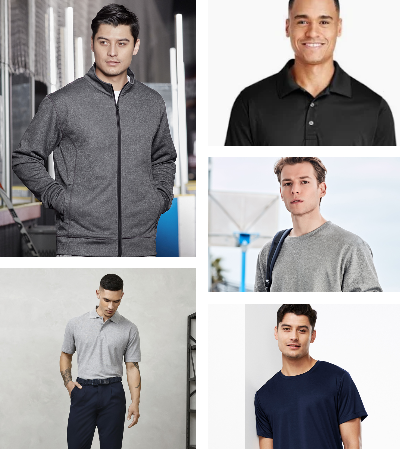
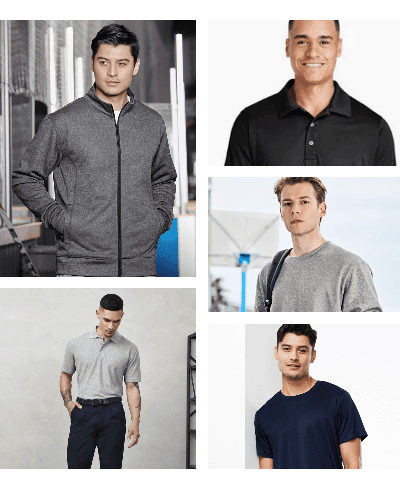
first commit

diff --git a/src/App/Root/Products/Products.tsx b/src/App/Root/Products/Products.tsx
@@ -76,7 +76,6 @@ const Products = () => {
           Que vous <br /> recherchiez :
         </h3>
         <div className={styles["products__grid"]}>
-          
           {productsList.map((product) => (
             <div
               style={{
@@ -88,6 +87,7 @@ const Products = () => {
                 ]
                   ? "center"
                   : "",
+               
               }}
               className={`${styles["products__grid__item"]} ${
                 styles[`products__grid__item--${product.id}`]
@@ -101,12 +101,11 @@ const Products = () => {
                     : "",
                   width: descrtiption[product.id as keyof typeof descrtiption]
                     ? "35%"
-                    : "",  
-                  }}
-               className= {styles[`products__grid__border--${product.id}`]}>
+                    : "",
+                }}
+                className={styles[`products__grid__border--${product.id}`]}
+              ></div>
 
-              </div>
-             
               <h3
                 style={{
                   display: descrtiption[product.id as keyof typeof descrtiption]
@@ -118,7 +117,6 @@ const Products = () => {
                 }`}
               >
                 {product.name}
-             
               </h3>
               <button
                 id={product.id.toString()}
@@ -127,10 +125,10 @@ const Products = () => {
                     ? "50%"
                     : "",
                   bottom: descrtiption[product.id as keyof typeof descrtiption]
-                    ? "22%"
-                    : "",  
-               
-                  opacity: opacity[product.id -1],
+                    ? "0%"
+                    : "",
+
+                  opacity: opacity[product.id - 1],
                 }}
                 type="button"
                 aria-label="cliquer pour plus d'informations"
@@ -163,16 +161,26 @@ const Products = () => {
                   display: descrtiption[product.id as keyof typeof descrtiption]
                     ? "flex"
                     : "none",
-                  minHeight: `${minHeight}px`,  
+                  minHeight: `${minHeight}px`,
                 }}
-                className={styles["products__grid__item__description"]}
+                className={styles["products__grid__item__description"]} 
               >
                 <p
                   className={styles["products__grid__item__description__text"]}
                 >
                   {product.description}
                 </p>
+                <div
+                  className={ 
+                    styles["products__grid__item__description__catalogue"]
+                  }
+                  style={{ display: "flex" }}
+                >
+                  {product.catalogues &&
+                    product.catalogues.map((catalogue) => <p>{catalogue}</p>)}
+                </div>
               </div>
+              
             </div>
           ))}
         </div>

diff --git a/src/App/Root/Products/Products.module.scss b/src/App/Root/Products/Products.module.scss
@@ -142,8 +142,11 @@
         align-items: center;
         position: relative;
         justify-content: center;
+        height: fit-content;
 
         @media(min-width: $mw-mobile) {
+
+            
 
             grid-template-areas: "a b"
                 "c d"
@@ -219,9 +222,11 @@
         &__img {
             width: 100%;
             animation: fade forwards 1s ease-in-out;
+            border-block: 15px solid white;
 
-
-
+            @media(min-width: $mw-mobile) {
+                border: none;
+            }
 
             &--1 {
                 grid-area: b;
@@ -327,6 +332,7 @@
             position: relative;
             
 
+         
            
 
             &__text {
@@ -336,6 +342,7 @@
 
                 @media(max-width: $mw-mobile) {
                     font-size: $fs-080;
+                    margin-top: -10%;
                 }
 
                 @keyframes fade {
@@ -363,7 +370,28 @@
                 }
 
             }
+
+            &__catalogue {
+                width: 100%;
+                text-align: center;
+                display: flex;
+                justify-content: center;
+                flex-direction: row;
+                gap: $sz-075;
+                margin-top: $sz-075;
+                font-size: $fs-080;
+                text-decoration: underline;
+                padding-inline: $sz-100;
+
+                @media(max-width: $mw-mobile) {
+                    margin-top: $sz-050;
+                    font-size: $fs-075;
+                }
+                
+            }
         }
+
+       
     }
 
 }

diff --git a/src/assets/products.ts b/src/assets/products.ts
@@ -1,15 +1,16 @@
-import produit1 from '../assets/produits--1.png'
+import produit1 from '../assets/produits --1.png'
 import produit2 from '../assets/produits--2.png'
-import produit3 from '../assets/produits--3-cropped.png'
+import produit3 from '../assets/produits--3.jpg'
 import produit4 from '../assets/produits--4.jpg'
-import produit5 from '../assets/produits--5.jpg'
-
+import produit5 from '../assets/produits--5.jpg' 
+ 
 export const productsList = [
     {
         id: 1,
         name: 'Des Vêtements',
         description: "Tous types de vêtements allant du t-shirt au manteau d'hiver en passant par les pantalons propres et les chemises",    
-        image: produit1
+        image: produit1,
+        //catalogues: ['Catalogue test 1', 'Catalogue test 2', 'Catalogue test 3']
     },
     {
         id: 2,
